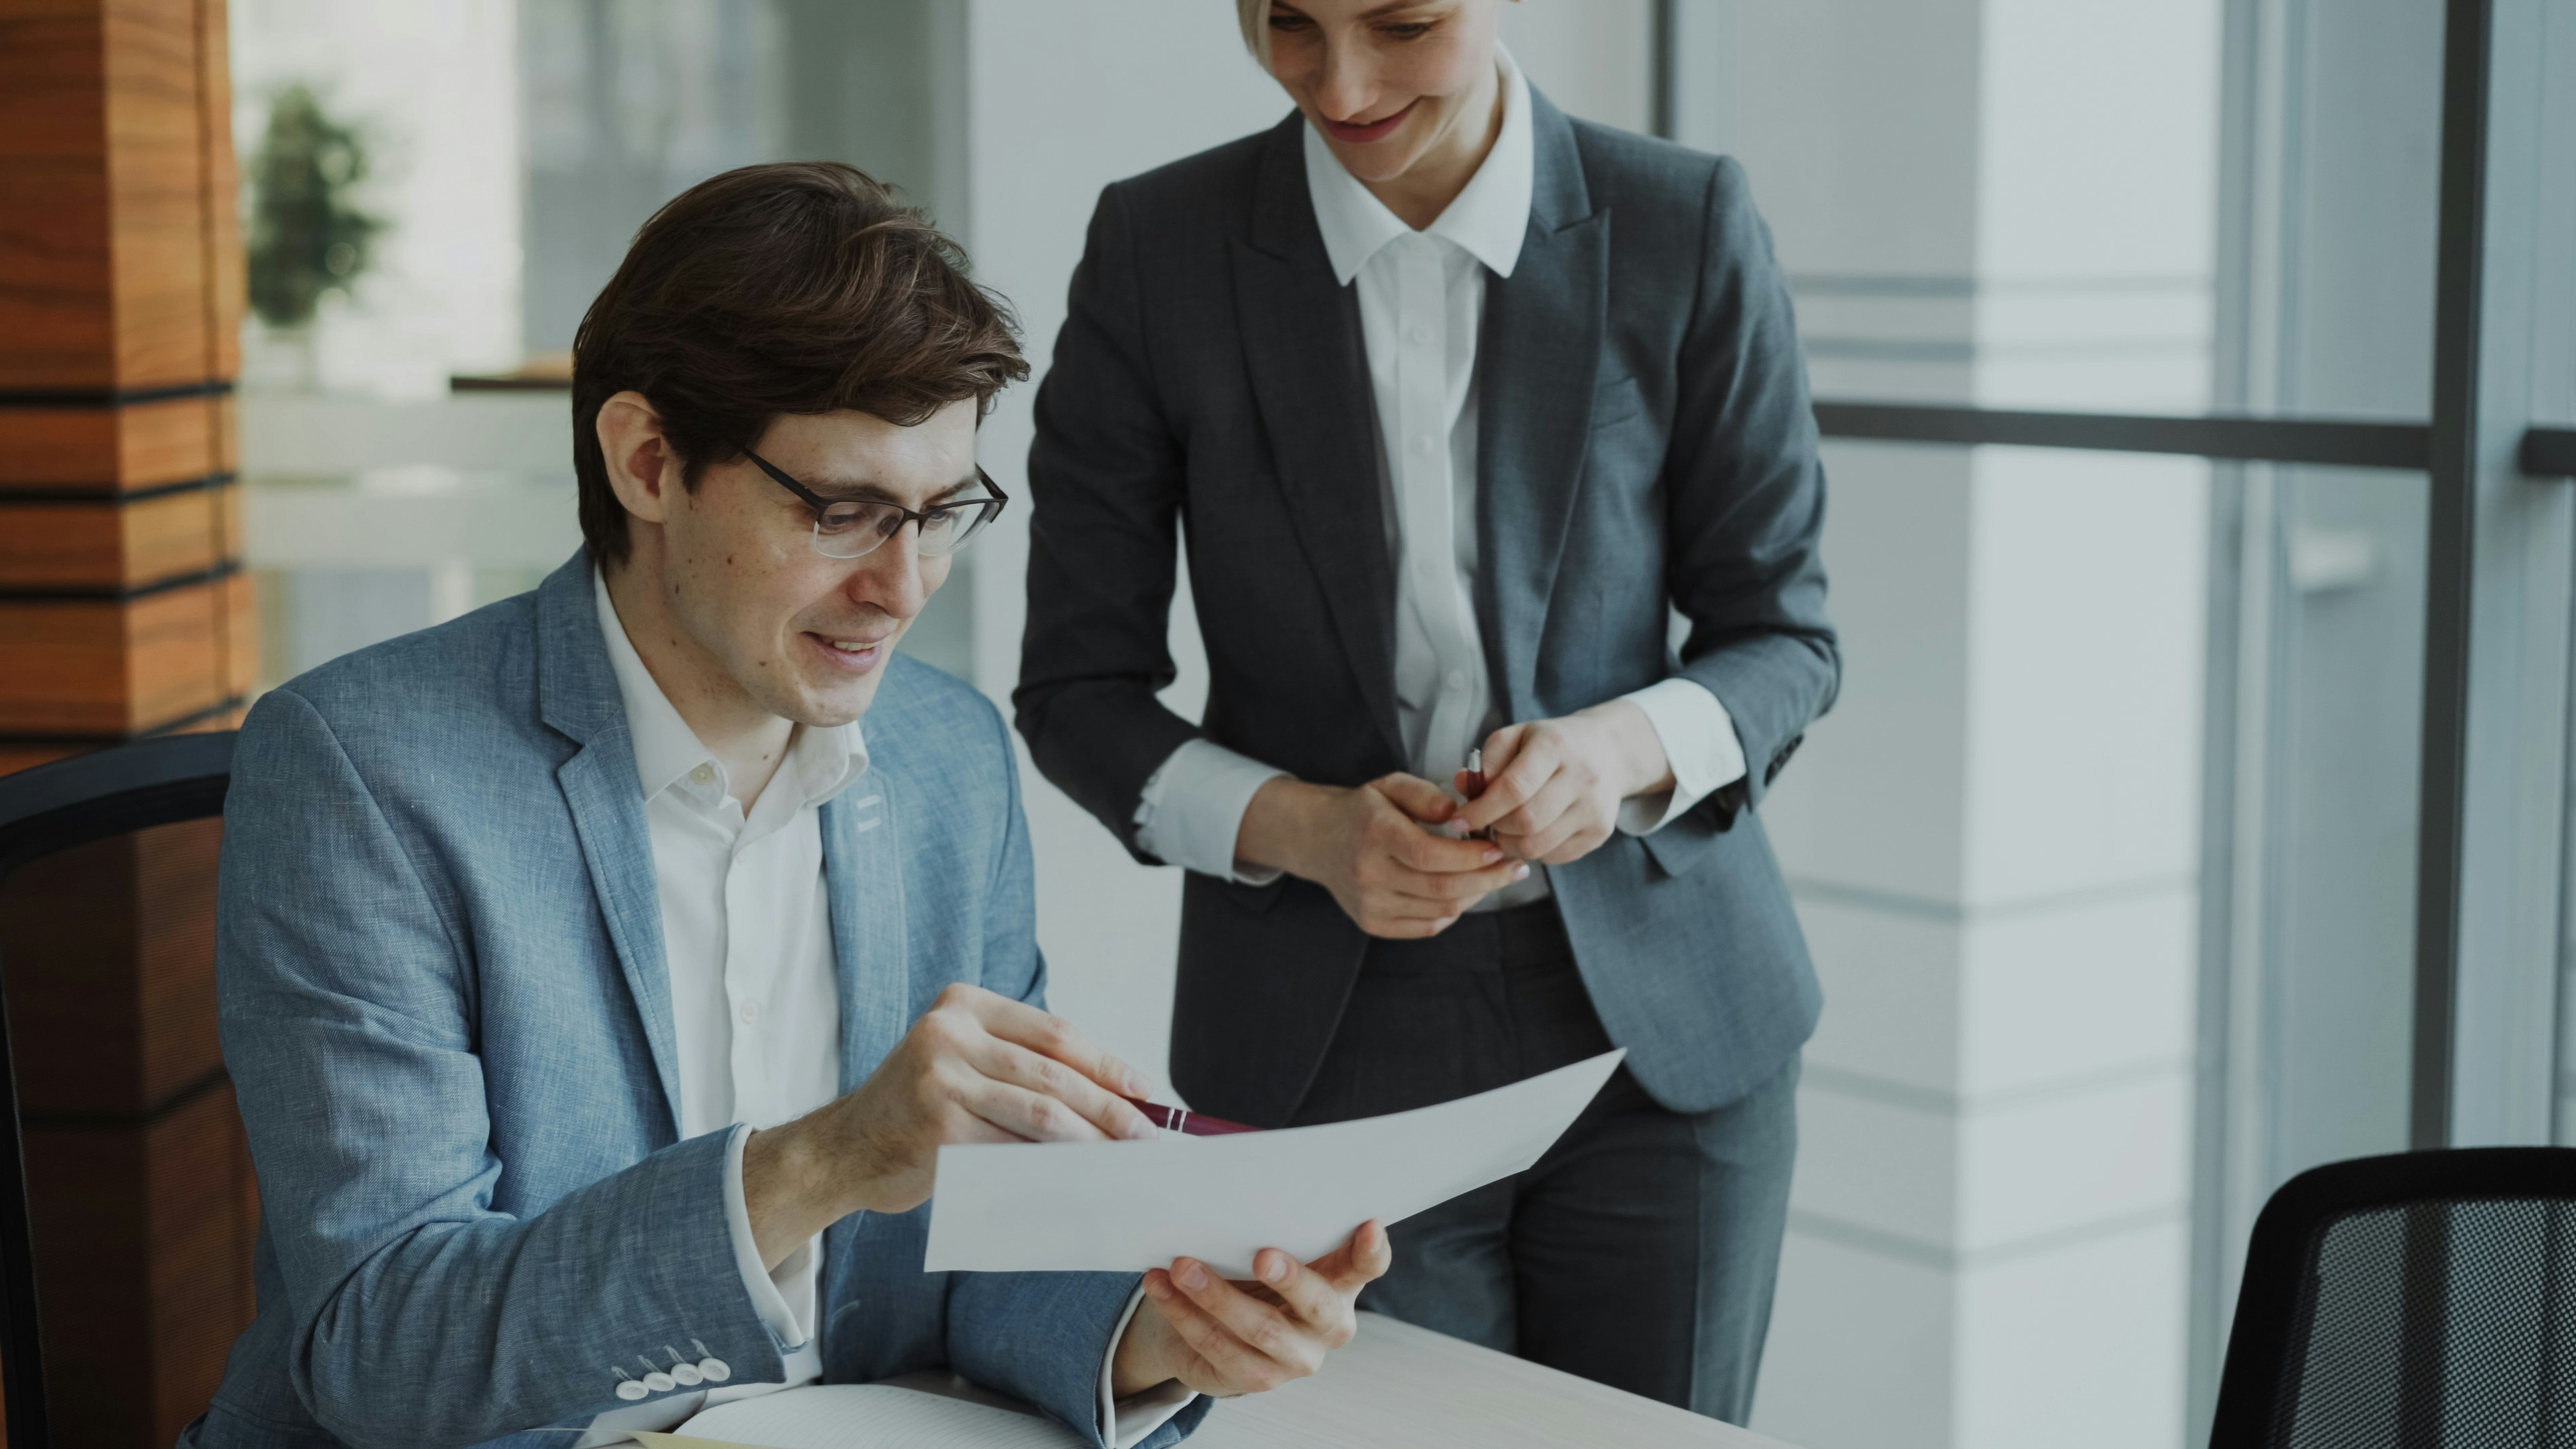
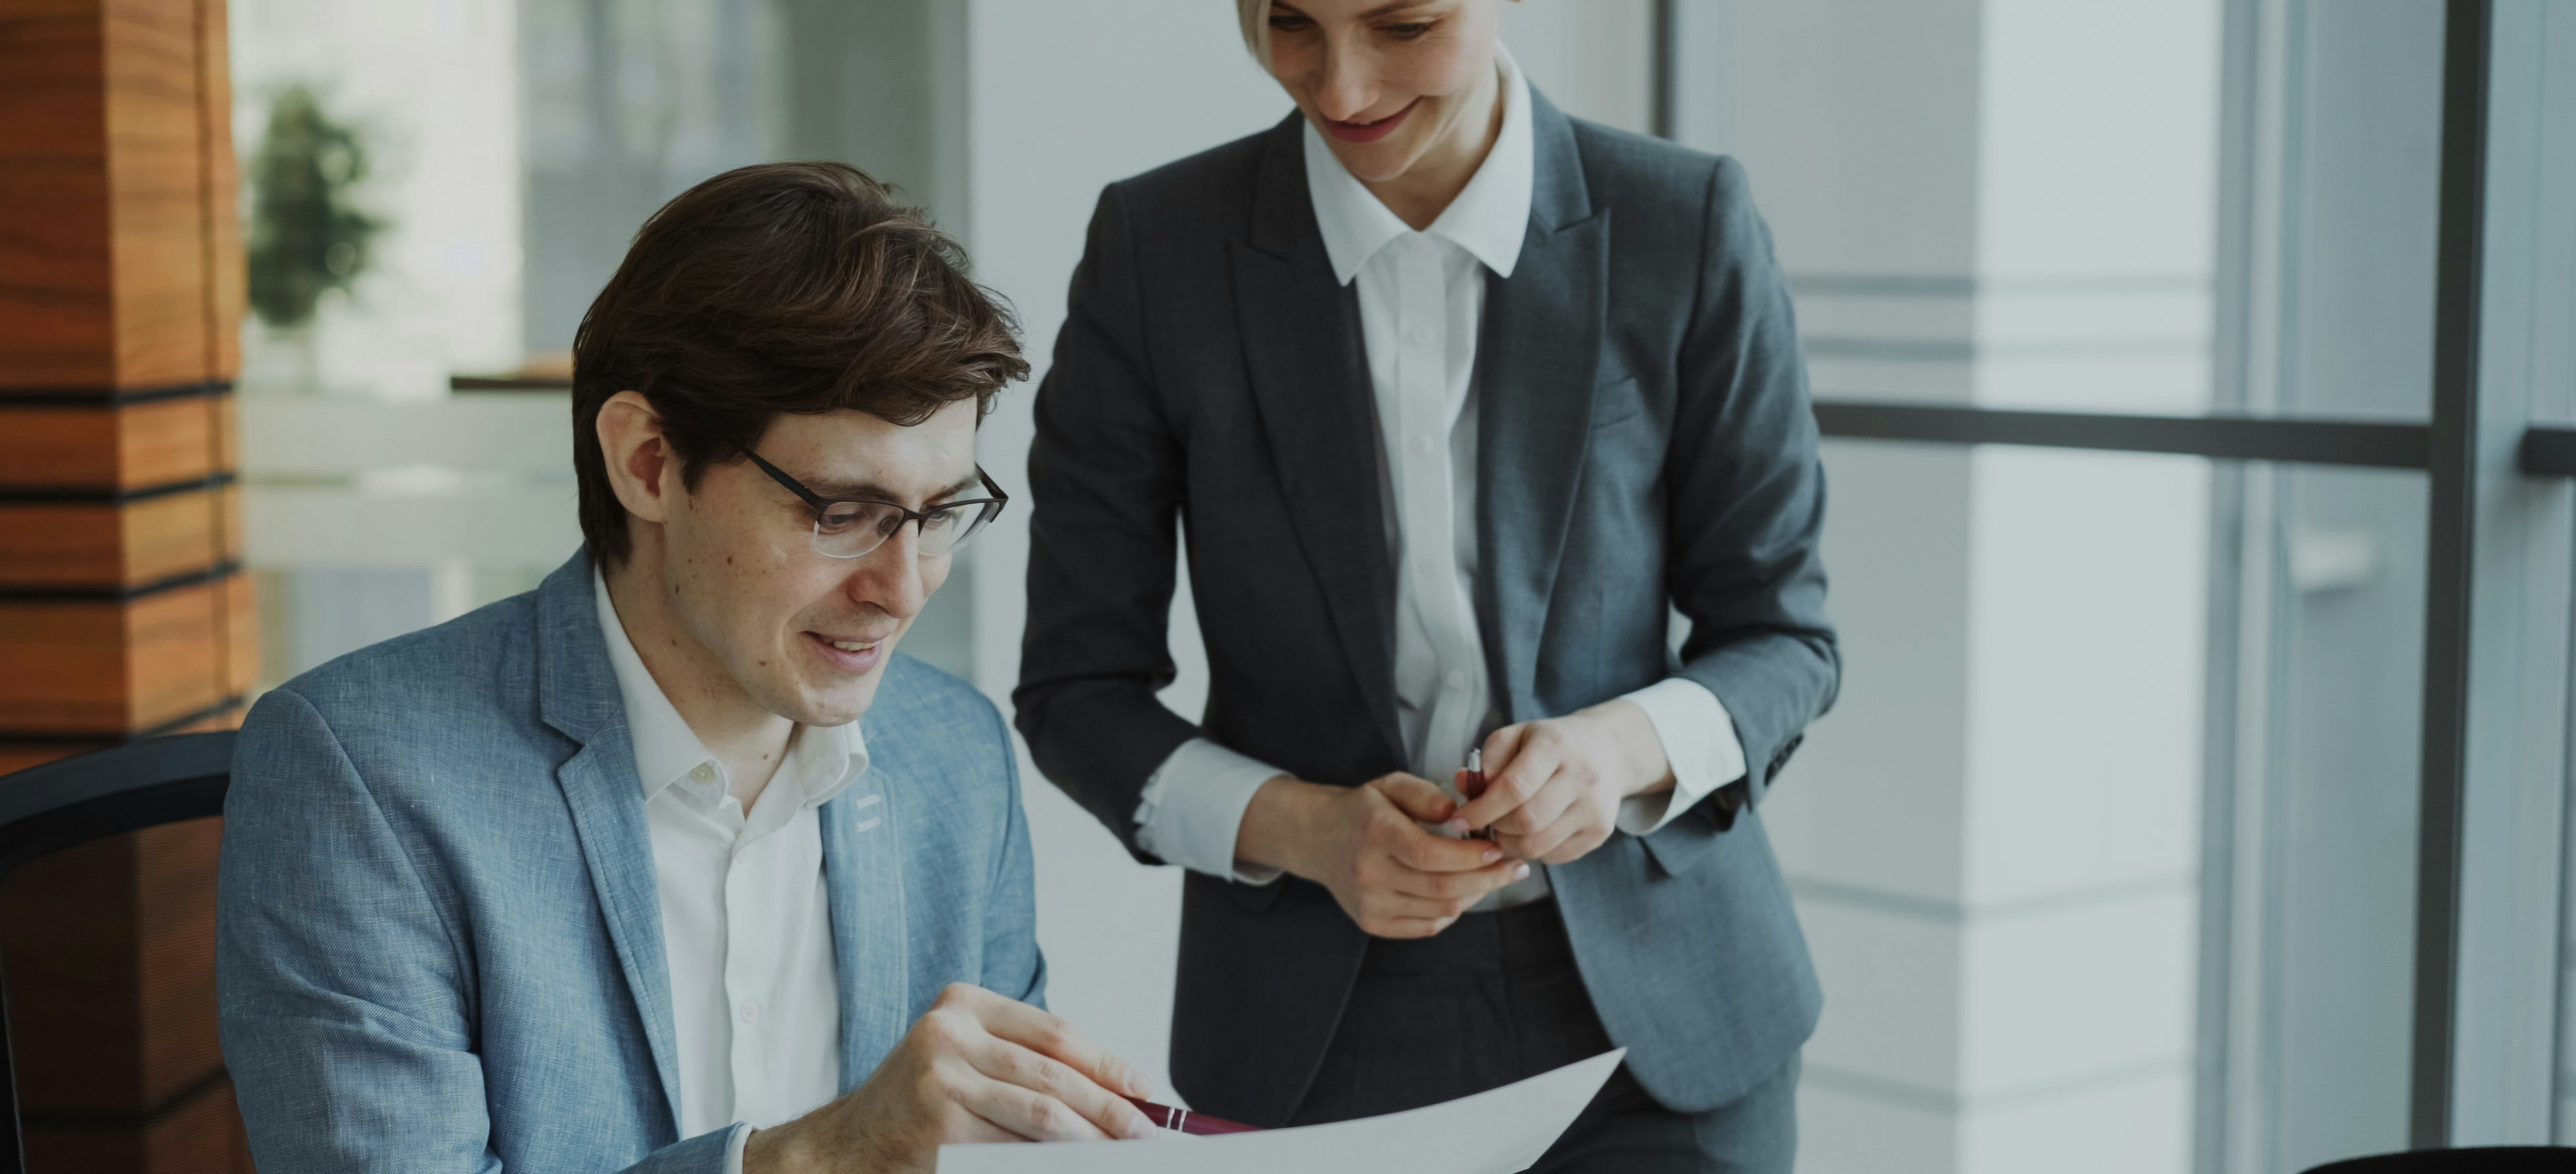
Nuevas imagenes de portada

diff --git a/src/app/custodia-de-mercaderia/page.jsx b/src/app/custodia-de-mercaderia/page.jsx
@@ -1,35 +1,51 @@
-import Custodia from '@/assets/images/custodia-de-mercaderia.jpg';
-import { Reveal } from '@/components/animation/Reveal';
-import Image from 'next/image';
-import { WhatsAppButton } from '@/components/WhatsAppButton';
+import Custodia from "@/assets/images/custodia-de-mercaderia.jpg";
+import { Reveal } from "@/components/animation/Reveal";
+import Image from "next/image";
+import { WhatsAppButton } from "@/components/WhatsAppButton";
+import CustodiaDeMercaderia from "@/assets/images/imagen-escolta.png";
 
 const page = () => {
   return (
-    <section className="bg-[#FAFAFA]">
-      <WhatsAppButton />
-      <div>
-        <Image src={Custodia} alt="" />
-      </div>
-      <div className="max-w-5xl mx-auto py-16 flex flex-col gap-5 px-5">
-        <Reveal hiddenValue={{ opacity: 0, x: -75 }}>
-          <section>
-            <h1 className="text-[#252B42] text-4xl font-bold mb-4">
-              Custodia de mercadería en tránsito
-            </h1>
-            <p className="text-lg">
-              El patrimonio de una empresa va más allá de sus instalaciones,
-              incluye también mercadería que en muchos casos debe ser trasladada
-              y necesita ser protegida. Ofrecemos un servicio de Custodia
-              Armada, a distintos tipos de transportes, no solo de mercadería,
-              sino también de personal y equipos técnicos, cuya jurisdicción
-              abarca todo el Territorio Nacional. Brindamos la más amplia
-              cobertura, para este tipo de custodias, contando con personal con
-              alto grado de entrenamiento.
-            </p>
-          </section>
-        </Reveal>
-      </div>
-    </section>
+    <>
+      <section className="bg-[#FAFAFA] relative h-screen">
+        <WhatsAppButton />
+
+        <Image
+          src={CustodiaDeMercaderia}
+          alt="Imagen Escolta de Camion con Auto LatinSec"
+          fill
+          className="object-cover"
+        />
+        <div className="absolute inset-0 bg-black/50" />
+        <div className="absolute inset-0 flex items-center">
+          <div className="max-w-5xl mx-auto px-5 w-full">
+            <h1 className="text-white text-3xl md:text-6xl leading-tight drop-shadow-[0_10px_30px_rgba(0,0,0,0.35)] font-bold flex items-center justify-center">Custodia de Mercadería</h1>
+          </div>
+        </div>
+      </section>
+
+      <section>
+        <div className="max-w-5xl mx-auto py-16 flex flex-col gap-5 px-5">
+          <Reveal hiddenValue={{ opacity: 0, x: -75 }}>
+            <section>
+              <h1 className="text-[#252B42] text-4xl font-bold mb-4">
+                Custodia de mercadería en tránsito
+              </h1>
+              <p className="text-lg">
+                El patrimonio de una empresa va más allá de sus instalaciones,
+                incluye también mercadería que en muchos casos debe ser
+                trasladada y necesita ser protegida. Ofrecemos un servicio de
+                Custodia Armada, a distintos tipos de transportes, no solo de
+                mercadería, sino también de personal y equipos técnicos, cuya
+                jurisdicción abarca todo el Territorio Nacional. Brindamos la
+                más amplia cobertura, para este tipo de custodias, contando con
+                personal con alto grado de entrenamiento.
+              </p>
+            </section>
+          </Reveal>
+        </div>
+      </section>
+    </>
   );
 };
 

diff --git a/src/app/investigaciones/page.jsx b/src/app/investigaciones/page.jsx
@@ -1,15 +1,27 @@
 import Investigaciones from '@/assets/images/investigaciones.jpg';
+import InvestigacionesPrivadas from '@/assets/images/investigaciones-privadas.png';
 import { Reveal } from '@/components/animation/Reveal';
 import Image from 'next/image';
 import { WhatsAppButton } from '@/components/WhatsAppButton';
 
 const page = () => {
   return (
-    <section className="bg-[#FAFAFA]">
-      <WhatsAppButton />
-      <div>
-        <Image src={Investigaciones} alt="" />
-      </div>
+    <>
+    <section className='relative h-screen'>
+       <WhatsAppButton />
+        <Image src={InvestigacionesPrivadas} 
+        alt="Imagen aluciva a investigaciones privadas" 
+        fill
+        className="object-cover"/>
+        <div className="absolute inset-0 bg-black/50" />
+        <div className="absolute inset-0 flex items-center">
+          <div className="max-w-5xl mx-auto px-5 w-full">
+            <h1 className="text-white text-3xl md:text-6xl leading-tight drop-shadow-[0_10px_30px_rgba(0,0,0,0.35)] font-bold flex items-center justify-center">Investigaciones</h1>
+          </div>
+        </div>
+    </section>
+
+    <section>
       <div className="max-w-5xl mx-auto py-16 flex flex-col gap-5 px-5">
         <Reveal hiddenValue={{ opacity: 0, x: -75 }}>
           <section>
@@ -42,6 +54,8 @@ const page = () => {
         </Reveal>
       </div>
     </section>
+    </>
+   
   );
 };
 

diff --git a/src/app/asesoramiento-y-consultoria/page.jsx b/src/app/asesoramiento-y-consultoria/page.jsx
@@ -2,14 +2,23 @@ import Asesoramiento from '@/assets/images/asesoramiento.jpg';
 import { Reveal } from '@/components/animation/Reveal';
 import Image from 'next/image';
 import { WhatsAppButton } from '@/components/WhatsAppButton';
+import AsesoramientoYConsultoria from '@/assets/images/consultoria.jpg';
 
 const page = () => {
   return (
-    <section className="bg-[#FAFAFA]">
+    <>
+     <section className='relative h-screen'>
       <WhatsAppButton />
-      <div>
-        <Image src={Asesoramiento} alt="" />
-      </div>
+      
+      <Image src={AsesoramientoYConsultoria} 
+      alt="Imagen aluciva a asesoramiento y consultoria" 
+      fill
+      className="object-cover"
+      />
+     </section>
+
+
+    <section className="bg-[#FAFAFA]">
       <div className="max-w-5xl mx-auto py-16 flex flex-col gap-5 px-5">
         <Reveal hiddenValue={{ opacity: 0, x: 75 }}>
           <section>
@@ -34,6 +43,8 @@ const page = () => {
         </Reveal>
       </div>
     </section>
+    </>
+   
   );
 };
 

diff --git a/src/app/page.js b/src/app/page.js
@@ -34,6 +34,7 @@ import RobotsAutonomos from '@/assets/images/robots-autonomos.png';
 import SeguridadBancaria from '@/assets/images/seguridad-en-bancos.jpeg';
 import Research from '@/assets/images/research.jpg';
 import Totem from '@/assets/images/totem-vigilador.png';
+import NuevaPortada from '@/assets/images/portada-con-logo-latinsec.png'
 
 
 
@@ -46,7 +47,7 @@ const Home = () => {
       {/* Imagen de fondo */}
       <div className="absolute inset-0 z-[1]">
         <img 
-          src={ImagenPortada.src} 
+          src={NuevaPortada.src} 
           alt="Background"
           className="w-full h-full object-cover object-right"
         />

diff --git a/src/components/Navbar.jsx b/src/components/Navbar.jsx
@@ -16,9 +16,9 @@ export const Navbar = () => {
 
   return (
     <header className="nav fixed top-0 w-full z-50 bg-white shadow-[0_10px_30px_rgba(0,0,0,0.08)]">
-      <nav className="bg-white max-w-[1400px] mx-auto px-10 py-1.5 grid grid-cols-[auto_1fr_auto] items-center gap-8">
+      <nav className="bg-white max-w-[1400px] mx-auto px-10 py-2.5 grid grid-cols-[auto_1fr_auto] items-center gap-8">
         {/* Logo */}
-        <div className="w-32">
+        <div className="w-36">
           <a href="/">
             <Image src={Logo} alt="Logo" />
           </a>
